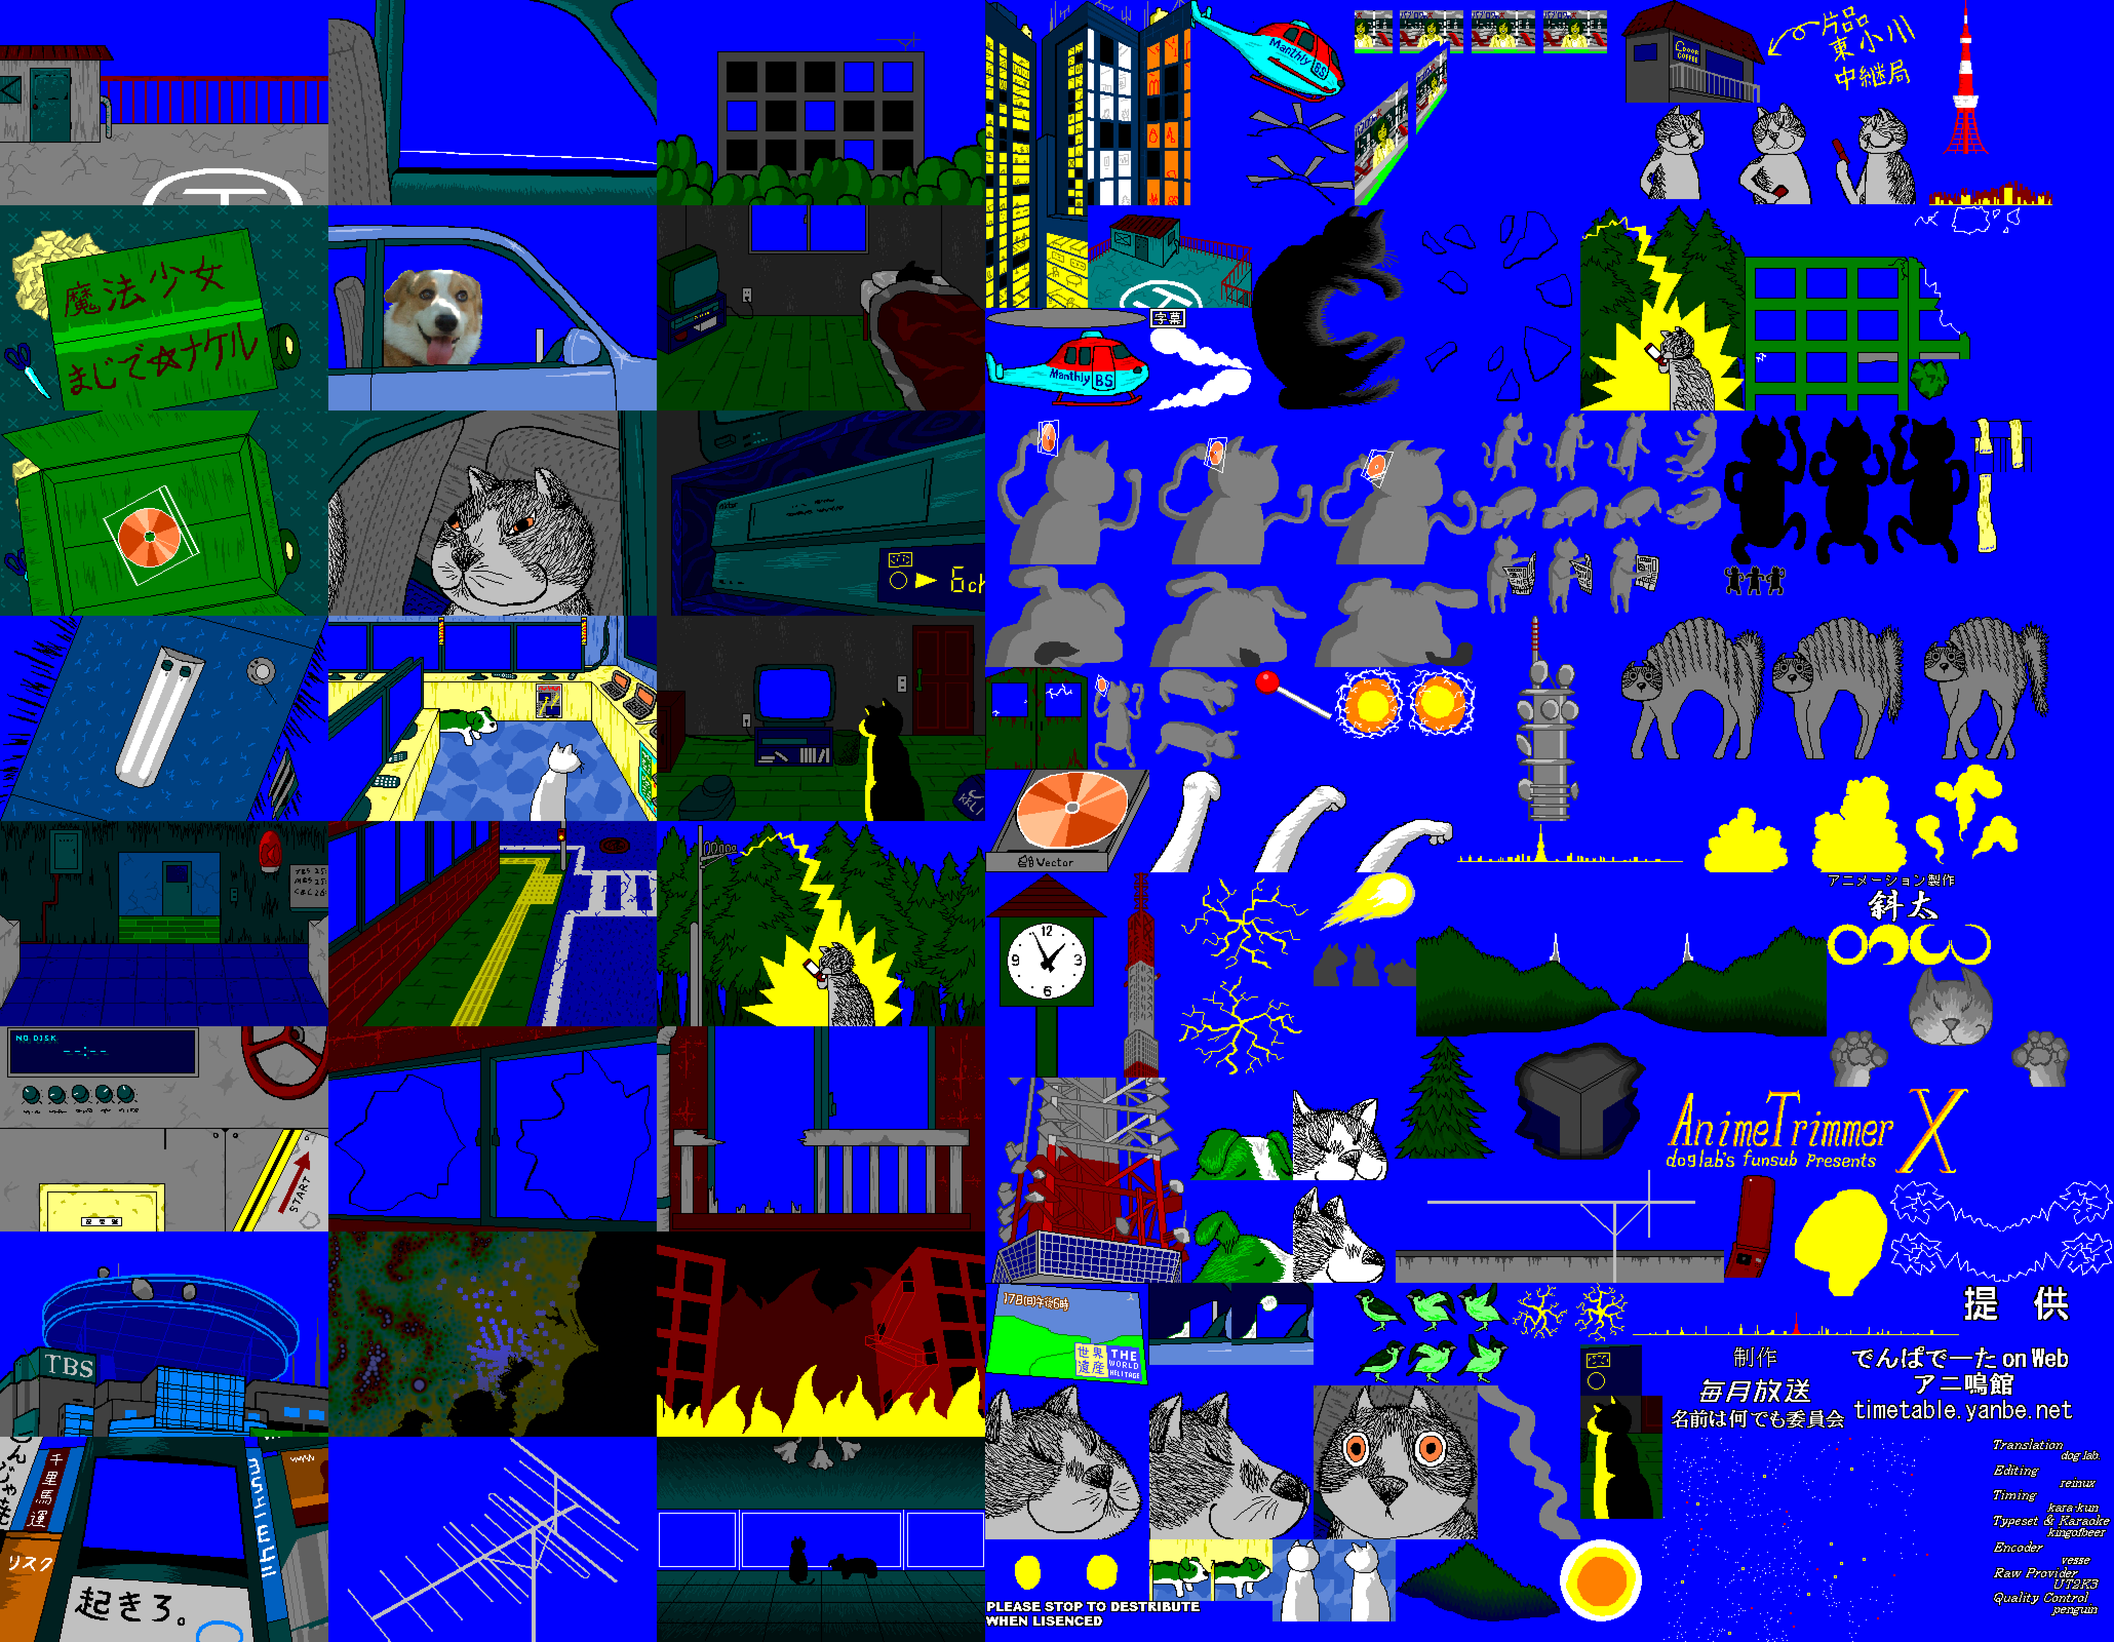
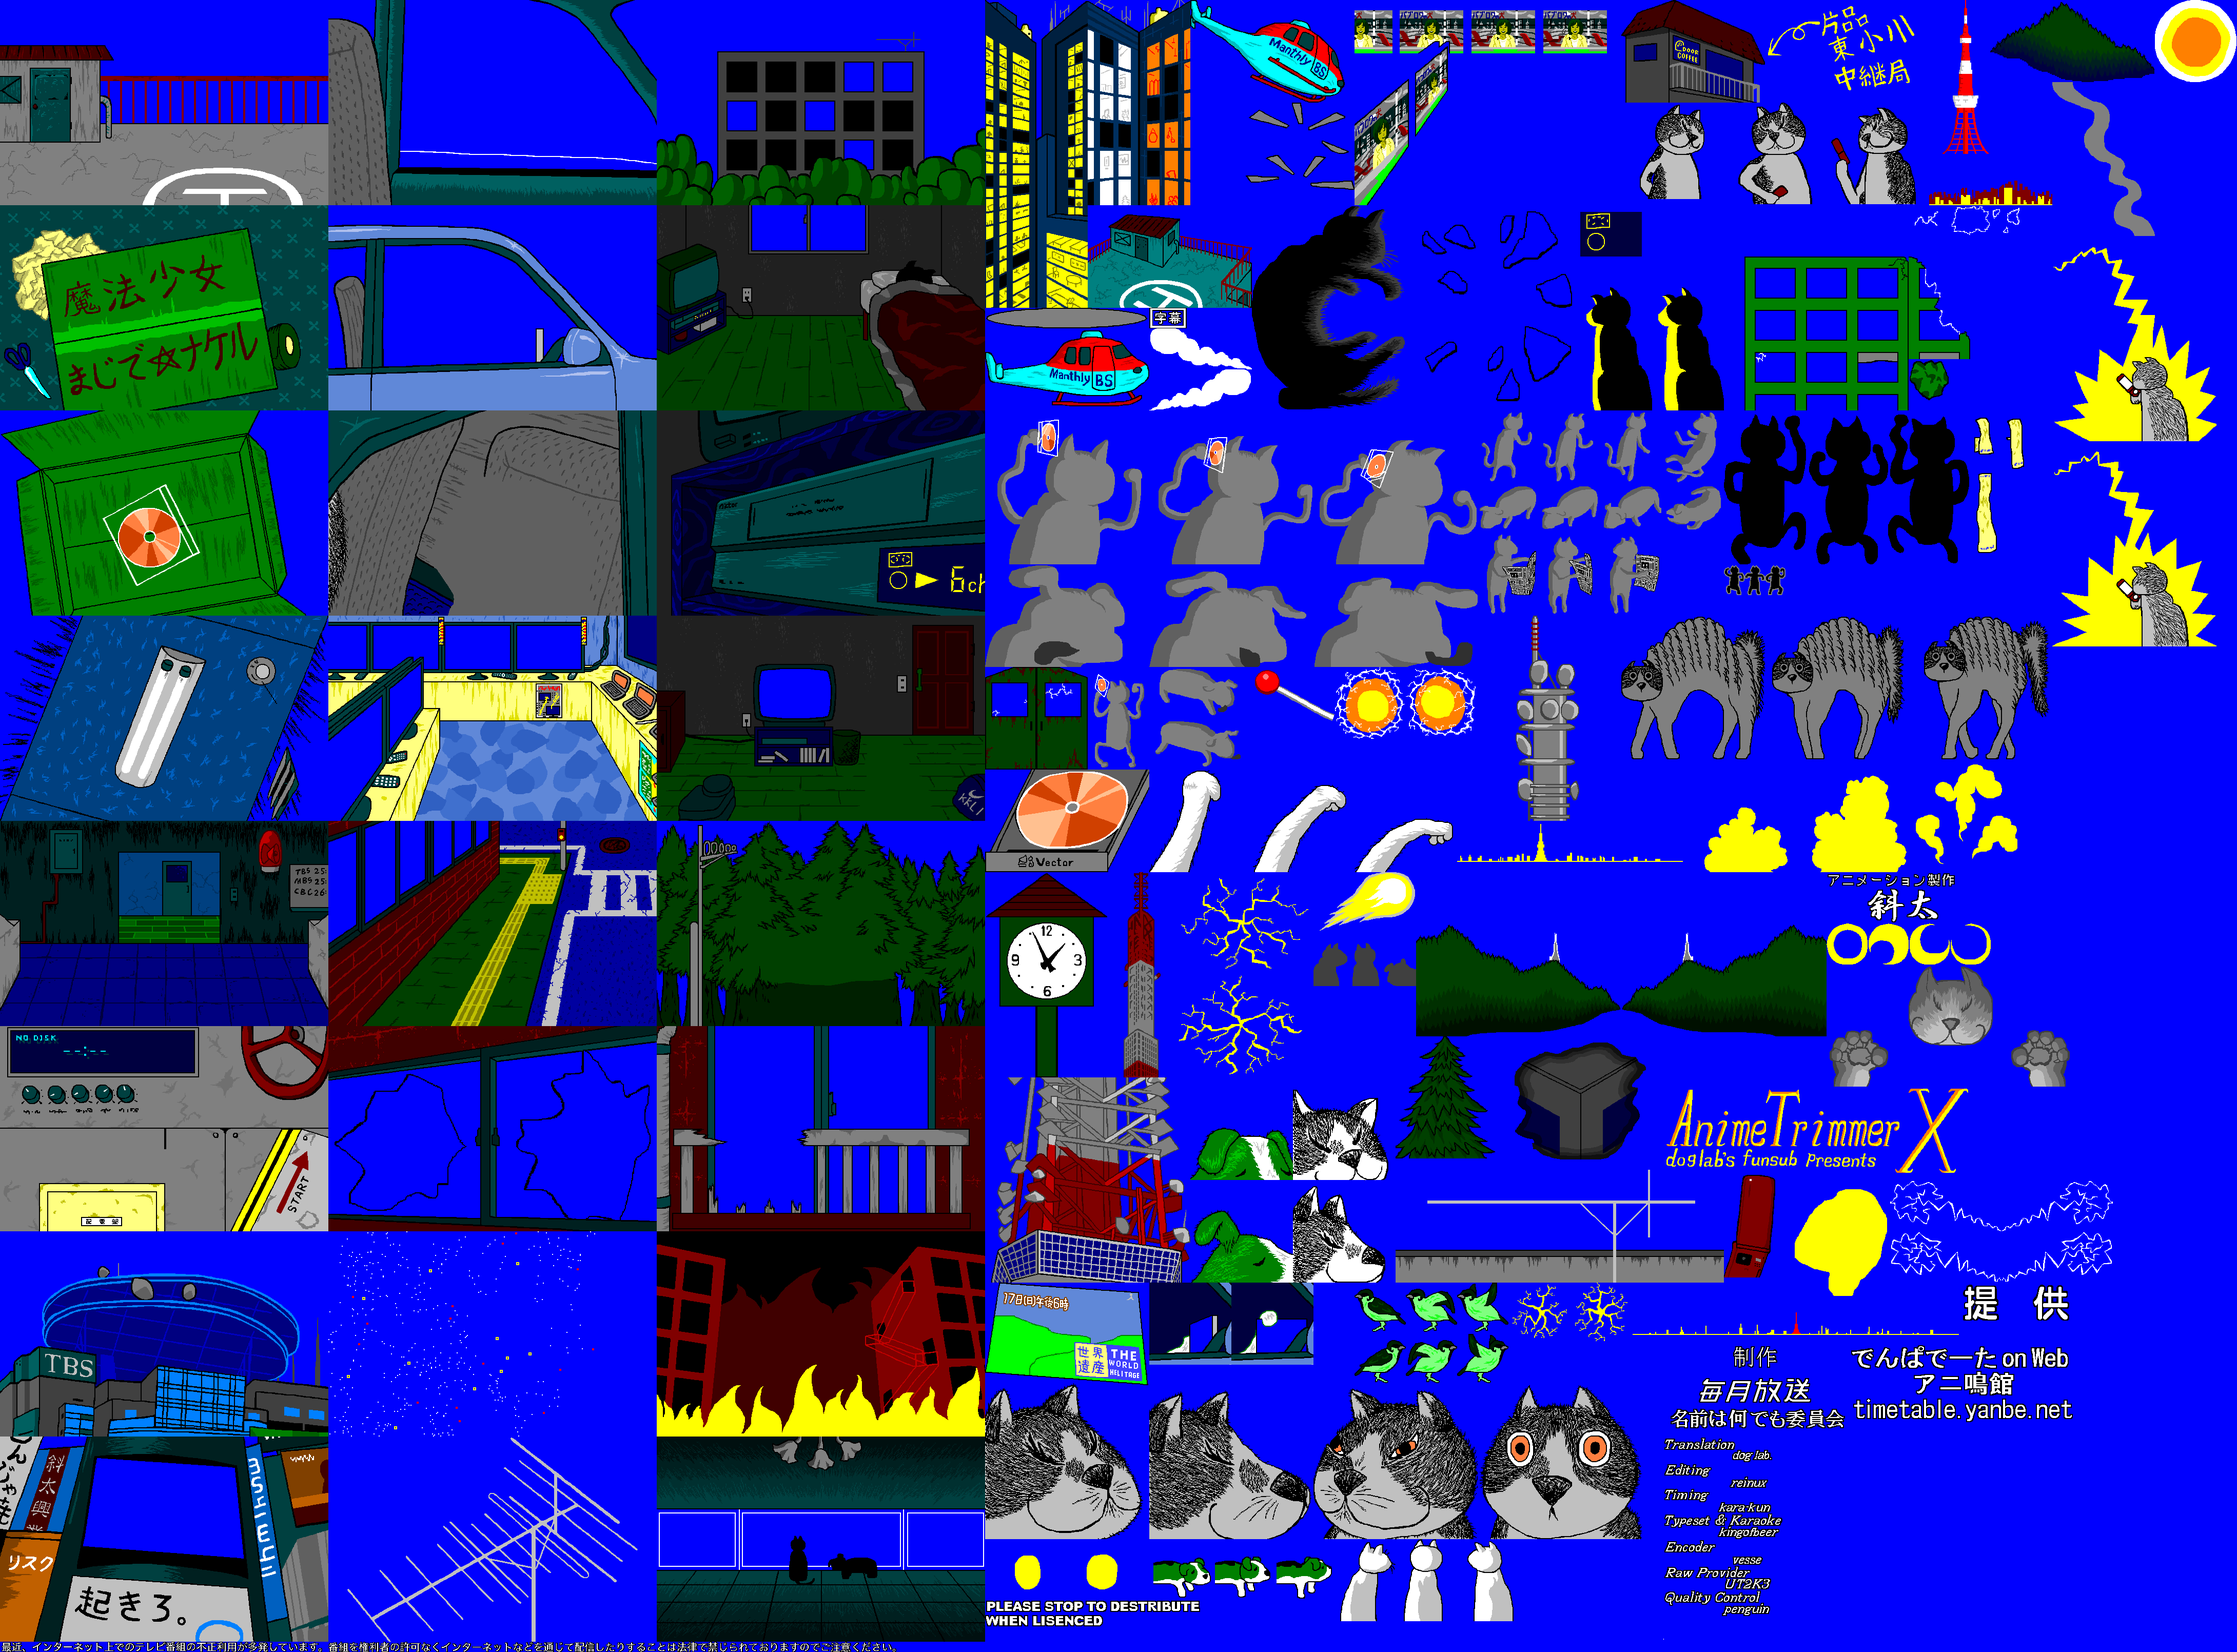
Remake opening.png for 640x480

diff --git a/source/animation.cpp b/source/animation.cpp
@@ -770,13 +770,15 @@ void applyJsonData(JsonData *json){
 
 	id=0;
 	int w=0,h=0;
-	char file[100];
-	file[0]=0;
+	char file[100], frame_file[100];
 	for(int i=0 ; i<json->jr.image.valueNum ; i++){
+		file[0]=0;
+		frame_file[0]=0;
 		for(int j=i ; j<json->jr.image.valueNum ; j++){
 			if(json->jr.image.name[j][0]==';')break;
 			if(strcmp(json->jr.image.name[j],"id")==0)id=json->jr.image.valueDouble[j];
 			else if(strcmp(json->jr.image.name[j],"file")==0)strcpy_s(file,json->jr.image.valueString[j]);
+			else if(strcmp(json->jr.image.name[j],"frame")==0)strcpy_s(frame_file,json->jr.image.valueString[j]);
 			else if(strcmp(json->jr.image.name[j],"w")==0)w=json->jr.image.valueDouble[j];
 			else if(strcmp(json->jr.image.name[j],"h")==0)h=json->jr.image.valueDouble[j];
 			i++;
@@ -789,9 +791,18 @@ void applyJsonData(JsonData *json){
 		}
 		freeImage(json->bg[id]);
 		if(file[0]){
-			getImage(json->bg[id],file,BLUE);
+			if(frame_file[0]){
+				getImage(json->bg[id],file);
+				Image *frame;
+				getImage(frame,frame_file,BLACK);
+				drawImage(json->bg[id],frame,0,0,0,0,frame->w,frame->h,255);
+				setAlpha(json->bg[id], 0, 0, 255);
+				freeImage(frame);
+			}else{
+				getImage(json->bg[id],file,BLUE);
+			}
 		}
-		if(w!=0 && h!=0){
+		else if(w!=0 && h!=0){
 			json->bg[id]=new Image(w,h);
 		}
 	}
